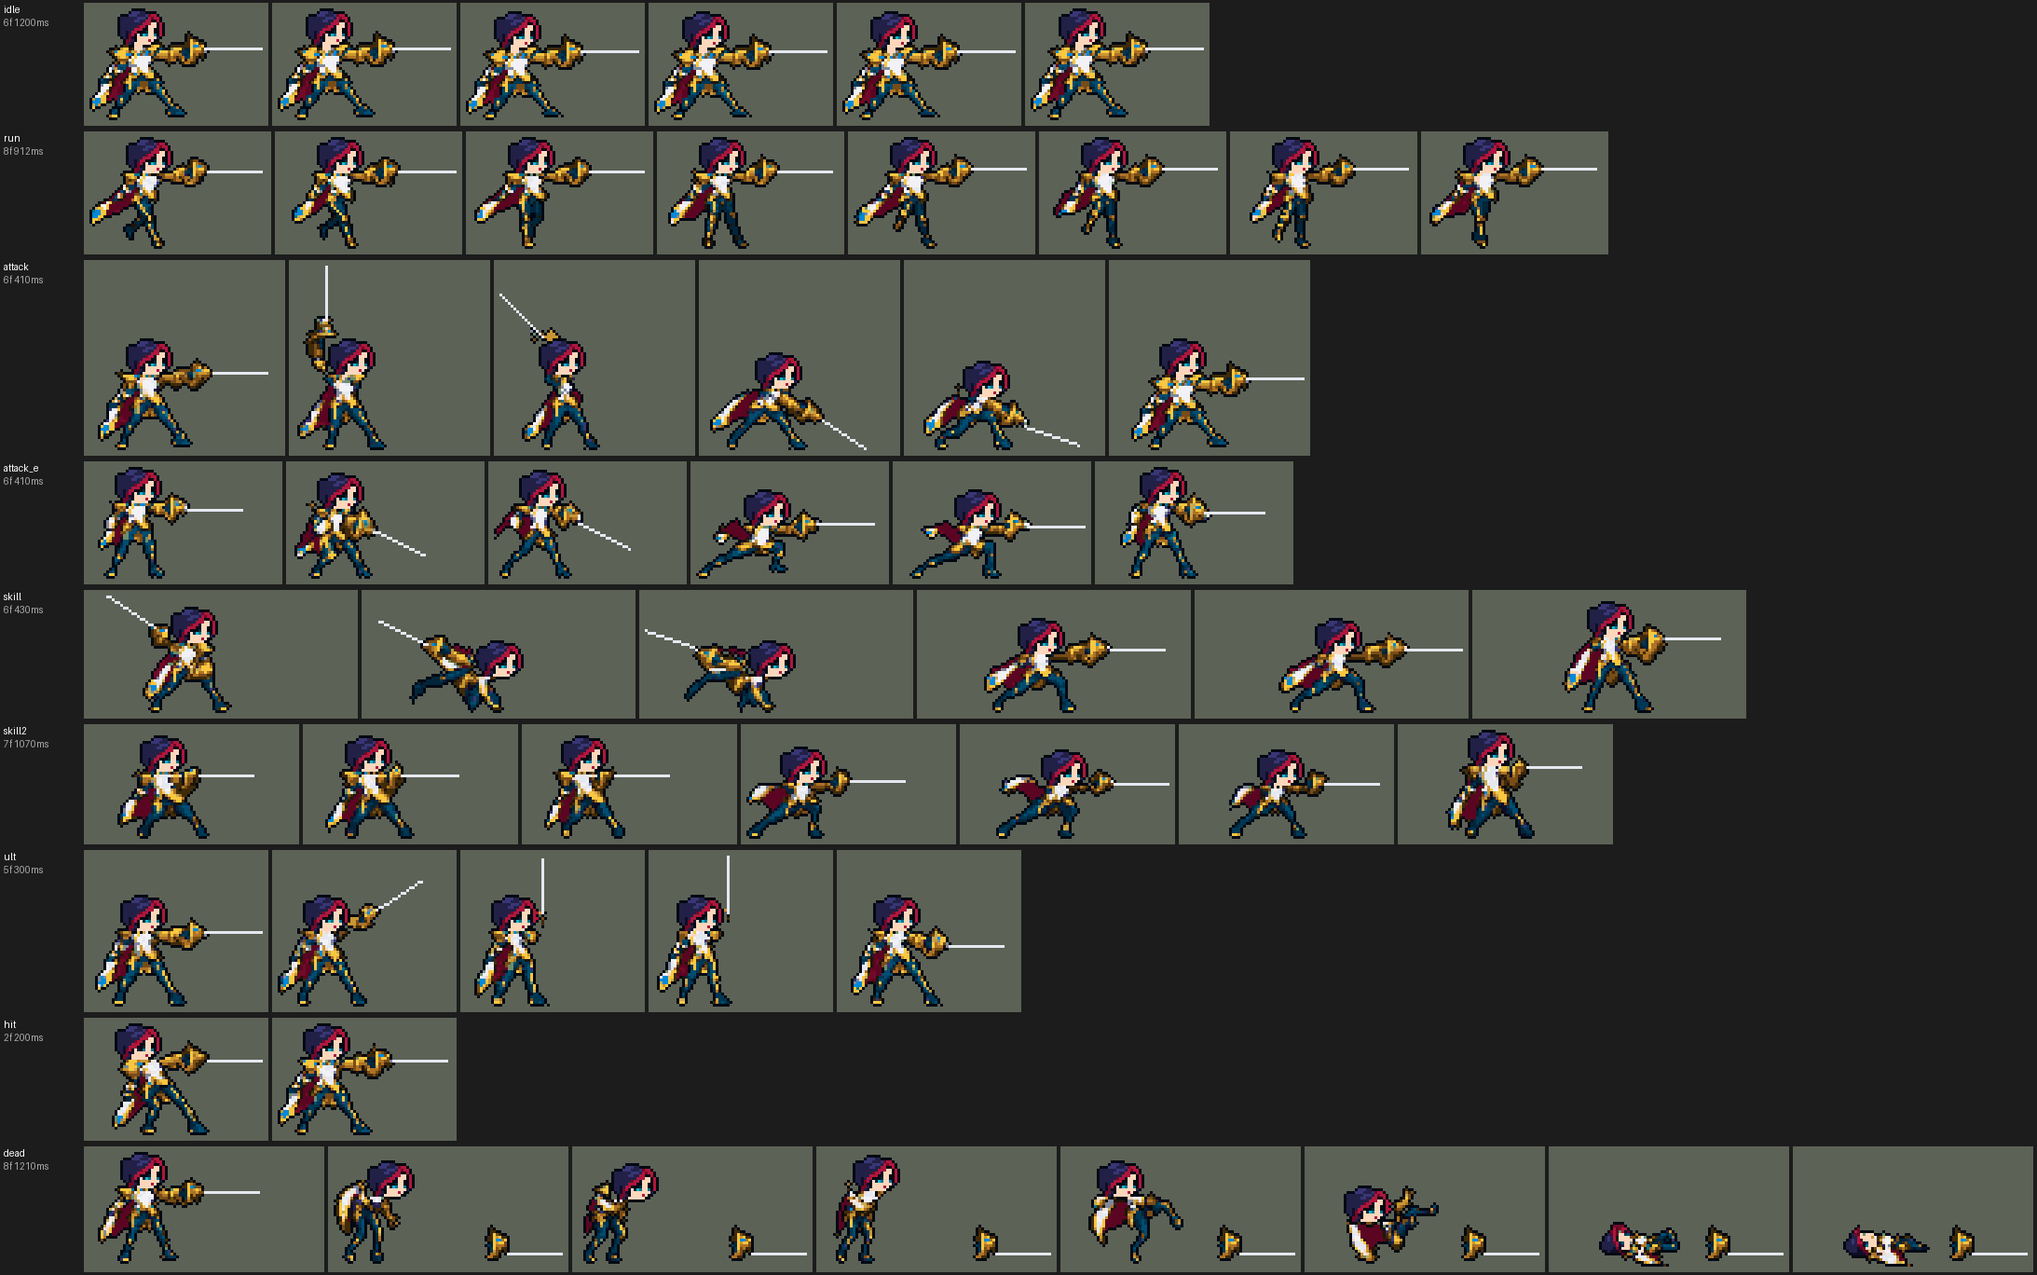
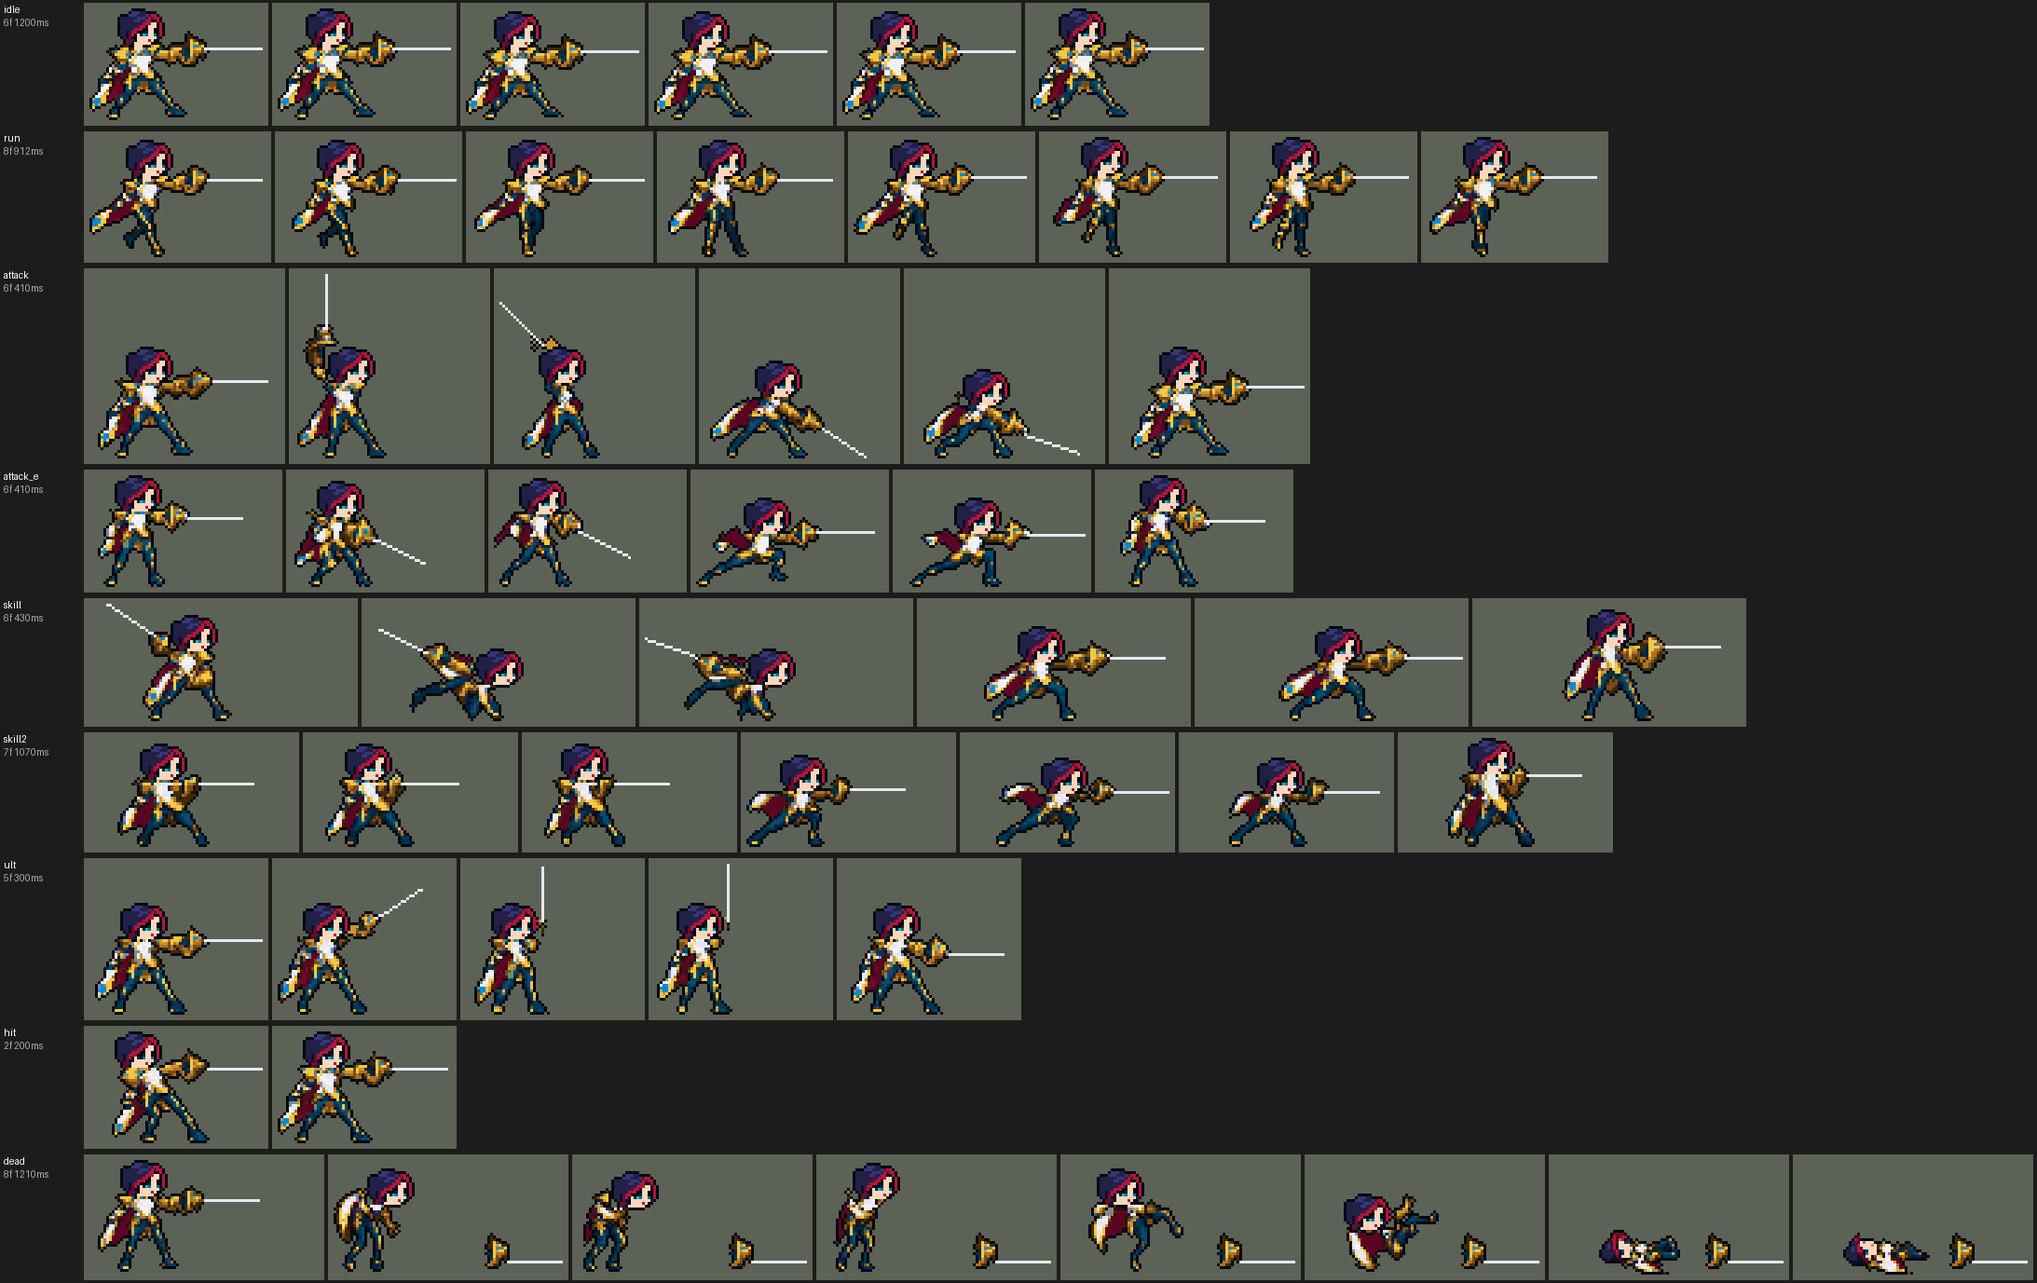
Fiora: the walk's head rides the body and sits in the collar
The user in game: "剑姬也有走路的时候 头和身体不协调的问题". Codex pasted
the idle's head at the idle's height on the walk, but the walk stands upright
(the en-garde idle is 3 rows lower): the chin sat on the collar and the sword
arm, and the shoulders rose and fell under a still head (eyes 5 rows over the
shirt in walk 1-5, 4 in 6-8, 8 in the idle). import_native.py LIFT raises
the head alone - what every walk frame has the same, grown from the eye
colour above the chin - 2 rows in frames 1-5 and 3 in 6-8, and puts the
idle's rows under its chin beneath it (the neck in its high gold collar; a
bare skin neck read as a long face). Every frame one piece, the face point
and the other heroes' sheets unchanged.

diff --git a/tools/art/import_native.py b/tools/art/import_native.py
@@ -57,6 +57,14 @@ SOLES = 11
 # above pivot row y moves down a row. Codex drew Nami's swimming body a row lower under the head in run 1-4 than
 # in 5-8 and the design, so her neck stretched and shrank as she swam (the user: "一上一下的时候感觉身体要分离一样").
 NECK = {("nami", "run"): (-21, [0, 1, 2, 3])}
+# (hero, tag): rows to lift the pasted head in each frame, its neck filled in under it. Codex pasted the idle's head
+# at the idle's height on Fiora's upright walk (the en-garde idle stands 3 rows lower), so her chin sat on the collar
+# and the shoulders rose and fell under a still head (the user: "剑姬也有走路的时候 头和身体不协调的问题"): the eyes
+# stood 5 rows over the shirt in walk 1-5 and 4 in 6-8 against 8 in the idle. Lifted 2 and 3 rows the head rides the
+# body and its chin clears the collar by the idle's two neck rows (a skin neck alone read as a long face: the idle's
+# rows under the chin - the neck in its high gold collar - go under it). The head is what every frame of the tag has
+# the same, grown from the EYES colour above the chin.
+LIFT = {("fiora", "run"): [2, 2, 2, 2, 2, 3, 3, 3]}
 # heroes whose outline strips.complete_outline closes on the finished frames (the skill's art-spec "Close the
 # outline": every hero from Nami on; the user: "后面英雄都要用的"). Nothing goes under the soles row; a frame that
 # already reaches lower (lying down) keeps its own bottom.
@@ -402,6 +410,68 @@ def touch_up(hero, sheet):
     return n
 
 
+def lift_head(hero, sheet):
+    """LIFT: raise the pasted head of the listed frames and fill the neck under it; the pixels moved."""
+    moved = 0
+    for (h, tag), lifts in LIFT.items():
+        if h != hero or tag not in sheet:
+            continue
+        frames = sheet[tag]
+        eye = tuple(EYES[hero])
+        rel = []
+        for a, _ in frames:
+            cy, cx = a.shape[0] // 2, a.shape[1] // 2
+            ys, xs = np.nonzero(a[..., 3] > 0)
+            rel.append({(int(y) - cy, int(x) - cx): tuple(int(v) for v in a[y, x, :3]) for y, x in zip(ys, xs)})
+        eyes = [q for q, c in rel[0].items() if c == eye]
+        chin = max(q[0] for q in eyes) + 3                     # the face ends three rows under the eyes
+        same = {q for q, c in rel[0].items() if q[0] <= chin and all(r.get(q) == c for r in rel[1:])}
+        head, todo = set(eyes), list(eyes)
+        while todo:
+            y, x = todo.pop()
+            for dy in (-1, 0, 1):
+                for dx in (-1, 0, 1):
+                    q = (y + dy, x + dx)
+                    if q in same and q not in head:
+                        head.add(q)
+                        todo.append(q)
+        # the neck: the idle's rows under its chin (the neck in its high collar), lined up on the eyes
+        idle = sheet["idle"][0][0]
+        icy, icx = idle.shape[0] // 2, idle.shape[1] // 2
+        iy, ix = np.nonzero((idle[..., :3] == eye).all(-1) & (idle[..., 3] > 0))
+        ichin, ieye_x = int(iy.max()) - icy + 3, int(round(ix.mean())) - icx
+        eye_x = int(round(np.mean([q[1] for q in eyes])))
+        for k, lift in enumerate(lifts):
+            if not lift:
+                continue
+            a, ms = frames[k]
+            pad = lift + 2
+            b = np.pad(a, ((pad, pad), (0, 0), (0, 0)))
+            cy, cx = b.shape[0] // 2, b.shape[1] // 2
+            for y, x in head:
+                b[cy + y, cx + x] = 0
+            for y, x in head:
+                b[cy + y - lift, cx + x, :3] = rel[k][(y, x)]
+                b[cy + y - lift, cx + x, 3] = 255
+            for dy in range(1, lift + 1):                        # the idle's neck and collar rows under the chin
+                for dx in range(-6, 6):
+                    r, c = cy + chin - lift + dy, cx + eye_x + dx
+                    q = idle[icy + ichin + dy, icx + ieye_x + dx]
+                    if b[r, c, 3] == 0 and q[3] > 0:
+                        b[r, c] = q
+            for y, x in head:                                    # left open where the head was: holes in the body
+                r, c = cy + y, cx + x
+                if b[r, c, 3] == 0:
+                    near = [tuple(int(v) for v in b[r + dy, c + dx, :3]) for dy, dx in ((-1, 0), (1, 0), (0, -1), (0, 1))
+                            if b[r + dy, c + dx, 3] > 0 and (y + dy, x + dx) not in head]
+                    if len(near) >= 3:
+                        b[r, c, :3] = max(set(near), key=near.count)
+                        b[r, c, 3] = 255
+            frames[k] = (G.centre_frame(b, -cx, -cy), ms)
+            moved += len(head)
+    return moved
+
+
 def breathe(hero, sheet):
     """BOB and NECK: move the upper body of the listed slots down a row (after the retouch, which is drawn on the
     frame before it moves)."""
@@ -496,6 +566,9 @@ def main():
         touched = touch_up(hero, sheet)
         if touched:
             print(f"{hero}_retouch.json: {touched} pixels retouched")
+        lifted = lift_head(hero, sheet)
+        if lifted:
+            print(f"{hero}: pasted head lifted ({lifted} pixels a frame times frames)")
         breathe(hero, sheet)
         added, darkened, tidy = close_outline(hero, sheet)
         if added or darkened:

diff --git a/README.md b/README.md
@@ -66,7 +66,7 @@
 
 ![贾克斯演示：跑进场，Q 跳斩跳到德莱厄斯身上，落地用掉蓄力一击（落地尘土加紫能环）；三次普攻叠无情连打，第三下触发武器大师的被动（金色四角星）；E 反击风暴：灯柱在头顶一转，脚下紫色旋风转 1.5 秒，架势里照常挥击，结束时火环炸开、德莱厄斯眩晕 1 秒；蓄力一击好了再重砸一下；盖伦走到德莱厄斯身后，R 武器大师跳起砸地，裂地冲击波打中两人，之后脚下金色光环，改用反手突刺，每第二下触发被动，德莱厄斯倒下](docs/preview/league_jax_showcase.gif?v=0930jx)
 
-![菲奥娜演示：跑进场，Q 破空斩冲到德莱厄斯身上（出发点留下尘土和风痕），这一刺在他身上亮出一处破绽（蓝色菱形纹章），顺带发动夺命连刺（她身边的蓝白光线）；第一下普攻减速并刺中破绽（蓝色玫瑰碎裂、她脚下的速度线），第二下暴击（金色 X 形闪光），再普攻一下；W 劳伦特心眼刀：身前的月牙剑光招架 0.75 秒，德莱厄斯砍在上面，随后一道剑气刺穿他，因为挡下过伤害，他眩晕 1 秒（头顶的金星），这一刺也亮出了下一处破绽（离上次刺中已过 3 秒）；R 无双挑战：举剑致意，他身边的金环亮出四处破绽，同时发动夺命连刺，两下快攻刺中两处（金色玫瑰碎裂，下一段少一枚），冷却好了的 Q 冲上去刺中第三处；德莱厄斯后撤，她追着跑、刺得慢了，刺中破绽后冷却减半的 Q 一回来就冲上去刺中第四处，他脚下留下胜利之地（金色光圈，冒着绿色和金色的光点），德莱厄斯倒下](docs/preview/league_fiora_showcase.gif?v=1001fi6)
+![菲奥娜演示：跑进场，Q 破空斩冲到德莱厄斯身上（出发点留下尘土和风痕），这一刺在他身上亮出一处破绽（蓝色菱形纹章），顺带发动夺命连刺（她身边的蓝白光线）；第一下普攻减速并刺中破绽（蓝色玫瑰碎裂、她脚下的速度线），第二下暴击（金色 X 形闪光），再普攻一下；W 劳伦特心眼刀：身前的月牙剑光招架 0.75 秒，德莱厄斯砍在上面，随后一道剑气刺穿他，因为挡下过伤害，他眩晕 1 秒（头顶的金星），这一刺也亮出了下一处破绽（离上次刺中已过 3 秒）；R 无双挑战：举剑致意，他身边的金环亮出四处破绽，同时发动夺命连刺，两下快攻刺中两处（金色玫瑰碎裂，下一段少一枚），冷却好了的 Q 冲上去刺中第三处；德莱厄斯后撤，她追着跑、刺得慢了，刺中破绽后冷却减半的 Q 一回来就冲上去刺中第四处，他脚下留下胜利之地（金色光圈，冒着绿色和金色的光点），德莱厄斯倒下](docs/preview/league_fiora_showcase.gif?v=1001fi7)
 
 ## 英雄：盖伦
 
@@ -1337,6 +1337,7 @@ python tools/art/preview_fiora.py
 - 原画和造型：先写原画提示词包，Codex 画了 A（细剑平举的决斗架势）、B 两张，用户选 A。再让 Codex 直接按游戏尺寸画两版造型（B 的头大一些，像原版英雄），交回的原稿格子比要求的大（A 62 行、B 51 行），用 `regrid.py` 按原稿自己的格子取回像素，各做 40、42、44 行，用户选了 B40。`design_fiora.py`：取像素、对到 24 色（眼睛的青色只留在眼睛上）、只留一圈描边、按行列删到 40 行（脸那几行、几列不删），细剑在护手右边只留一行亮银色、不描边（Codex 画成两格粗，描边又把它围了一圈）；领口三颗宝石原来吸成了眼睛的青色，改回宝石蓝；用户看到"眼睛上有白色的方块"，选了改法 2：眼睛上方两格浅灰改成睫毛黑，白色角上那格改成瞳孔色。
 - 动作参考（`poses.json`）：镜头 yaw 45、pitch 25，不镜像，头 2.3、腿 0.8、头发 0.6，细剑（`Weapon`）放大 2 倍、贴在右手上，高度 40，120×112 的格子。待机 `Fiora_Idle1`，移动 `fiora_runwalk`（8 帧 × 114 ms，平地，头保持待机时的样子），普攻 `fiora_attack1`，暴击 `fiora_crit`，Q `fiora_spell1` 接 `fiora_crit`，W `fiora_spell2_in`（3 帧 × 250 ms 招架）接 `fiora_spell2`（4 帧 × 80 ms 刺出），R 用致意 `fiora_taunt`（50/50/60/70/70 ms，共 18 tick），受击取 `fiora_death` 开头和待机混合，死亡 `fiora_death`。
 - 动作：Codex 按参考帧画了 9 条（每帧贴定稿的头）。移动的第一版 8 帧两条腿一直是同一条在前（用户选"给 Codex 返修走路"），返修包附一张指引图：英雄联盟的原版走路，近侧腿涂橙、远侧腿涂蓝；返修只改髋部以下（第 81–97 行）：第 1–3 帧近侧腿着地在前，第 5–7 帧远侧腿在前，第 3–4、7–8 帧两腿在身下交错。
+- 跑步的头（用户在游戏里看到「剑姬也有走路的时候 头和身体不协调的问题」）：Codex 把待机的头按待机的高度贴到了跑步上，可走路是直起身的（待机的弓步矮 3 行），下巴直接压在领口和举剑的手臂上，身体在头下面上下晃、头不动（眼睛到衬衫 5 行、第 6–8 帧 4 行，待机是 8 行）。`import_native.py` `LIFT` 把每帧都一样的那颗头（从眼睛长出来、下巴以上）在第 1–5 帧抬 2 行、第 6–8 帧抬 3 行，下巴下面放待机下巴下的那几行（3 格宽的脖子嵌在金色高领里；只补一截皮肤脖子时脸像被拉长了），头跟着身体起伏，和待机的头身关系一致。
 - 导入：待机 6 帧用定稿，第 3–5 帧从第 8 行（靴口）往下沉一格呼吸（`BOB`）；按眼睛的青色定头的位置（`EYES`）。Codex 按英雄联盟的站位放各条动作，头大约在站位点上方，而定稿的待机按脚的中间站，差 9 列，待机的站位点右移 9 列（`fiora_cells.json`）。描边补齐（`COMPLETE`）时，深青的腿（亮度约 58）和酒红的披风（约 44）不算描边，默认的阈值 70 会让 Q 的几帧只有 83–89% 的边是黑的，所以剑姬的阈值设为 40（`DARK`），补齐后 98–100%（细剑那一格裸线不算）。最后按用户的「黑色描边处理一下 弄干净点」再清一遍（`CLEAN`，`strips.clean_outline`，脸部那块不动）：外圈原来一段黑、一段是她最深的青、酒红、棕，统一成黑色（2213 格）；描边内侧多贴的一层黑削掉（168 格）；身体里散落的单个黑点换成周围的颜色（400 格）；斜线台阶外侧多出的一格去掉（271 格）；斜着的细剑断成一段段两格长的短线，描边补齐给每段两头都加了黑头，看起来是黑白虚线，只挨着剑身亮色的黑头全部去掉（`BARE`，172 格），剑身成了一条干净的亮线。用户又指出斜着的剑「也应该是直线的吧」：Codex 画的斜剑台阶长短不一（3、2、3、2、4），就算是严格的直线、角度不巧也会 2、3 格混排而显得抖，`strips.straighten_lines` 把每把长剑的斜率对到最近的整齐比例（水平、1:4、1:3、1:2、2:3、1:1），从护手开始按等长台阶重画（63 格）。头像截取点 (1, −39)。待机最高点 −28，按规则不用设 `banpick_center`（锐雯、薇恩、阿卡丽也是 −28），但平举的细剑会伸出选人卡片的右边，设 (0, −11) 让卡片把它裁在画布里（剑尖少一截）。
 - 特效用 Codex 画的 18 张（107 帧），交的是生图原稿（半透明边、颜色没锁色板、蓝色和金色的光外面包着一圈最深色）：`import_fiora.py --raw` 按交付清单切帧，每个游戏像素取它覆盖的原图像素的多数色、有三分之一不透明才画，颜色只吸到这张特效要的色阶（钢色、破绽蓝、金色、治疗绿、尘土），最深的蓝、金色在边上的一格去掉（旁边有两格更亮的撑住形状时）或提亮一级。按技能定大小：命中 16–20 px，暴击 26 px，破绽 14 px 高、刺中 30 px，R 刺中 32 px，招架月牙 44 px 高，W 剑气 56 px 长（直线 55000），减速寒气 20 px 宽，眩晕星 18 px，胜利之地 72 px 宽（半径 35000），夺命连刺的光线格子 36 px 宽（绕着她 40 px 的身体），速度线 26 px，尘土 32 px。W 剑气按白色的芯（第 71 行）上下镜像成严格对称（游戏会把它转到刺的方向）；招架月牙在 4 帧里左右漂了 35 个原图像素，按月牙最右边对齐；减速寒气的圈在第 4、5 帧往上跑，按圈最宽的几行对齐；R 起手的四枚破绽画得比常驻的散开，横向压到 72/84、下移 4 个原图像素，起手画完正好接上常驻的四枚（常驻的第一段因此从第 22 tick 开始）；刺中破绽的蓝色玫瑰缩到 30 px 后花瓣线比一格还细，底色从深蓝提亮一级。招架月牙原来挂在招架 buff 上，buff 的画面不随朝向镜像，她朝左出 W 时月牙跑到身后、和剑对不上（用户：「W格挡会和剑的位置不一致」），先改成 W 出手时播的施法者画面（朝左时镜像），但施法者画面只能朝左或朝右，往下出 W 时月牙立在身侧、和往下的剑气成直角（用户：「剑姬格挡还会歪？」，选了「跟着出招方向转」），最后挂在一个朝目标飞、每 tick 只爬 0.1 px 的投射物上（卢锡安 Q 的做法：从她身体中心指向目标，画面单独抬高 9 px）：月牙转到出招方向，和剑气一条线，上下镜像成对称（往左时整张图转 180°），每帧往回挪抵消投射物爬的距离，0.75 秒后是空帧；刺中破绽后脚下往后拖的速度线也一样（用户：「速度线也一样改了吧」），每次刺中播 0.75 秒（加速最强的那半段），大招里连着刺中时前后两段会叠一下。时长按技能：破绽和剩下的破绽每段 20 tick（技能每 20 tick 播一段），R 起手 22 tick，W 剑气 11 tick（直线存在的时间），眩晕星 1 秒，胜利之地 3 秒（1–2 帧展开，3–6 帧循环 6 次，7–8 帧散去）。
 - 出手时刻和动画对齐：普攻第 3 帧（第 9 tick），Q 在冲到目标身上时刺中（`MoveToTarget` 到达），W 招架 45 tick 后第 47 tick 刺出，R 致意 18 tick。

diff --git a/.claude/skills/tfm2-hero-mod/references/art-spec.md b/.claude/skills/tfm2-hero-mod/references/art-spec.md
@@ -578,6 +578,11 @@ The route used for Garen in TFM2-League-Heroes: prompts in `assets/source/<hero>
   and at game size the head seemed to come off ("一上一下的时候感觉身体要分离一样"; league_riven's "脖子拉伸" before
   her). Move everything above a neck row down a row in the long-necked frames (`import_native.py` `NECK`, the breathing
   seam's mechanism) rather than the head alone, which would leave its old place empty.
+  A pasted idle head can also sit too low on a whole strip: league_fiora's en-garde idle stands 3 rows lower than her
+  upright walk, and Codex pasted the head at the idle's height, so her chin sat on the collar and the shoulders rose
+  and fell under a still head (the user: "头和身体不协调"). `import_native.py` `LIFT` raises the head alone (what every
+  frame of the strip has the same, grown from the eyes) by a count per frame and puts the idle's rows under its chin
+  beneath it - the neck in its high collar; a bare skin neck read as a long face.
 - **Review before shipping.** Per-strip sheets with the idle silhouette overlaid, `metrics`,
   a side-by-side with base champions at 1x and 3x, and a scripted showcase against a dummy.
 
